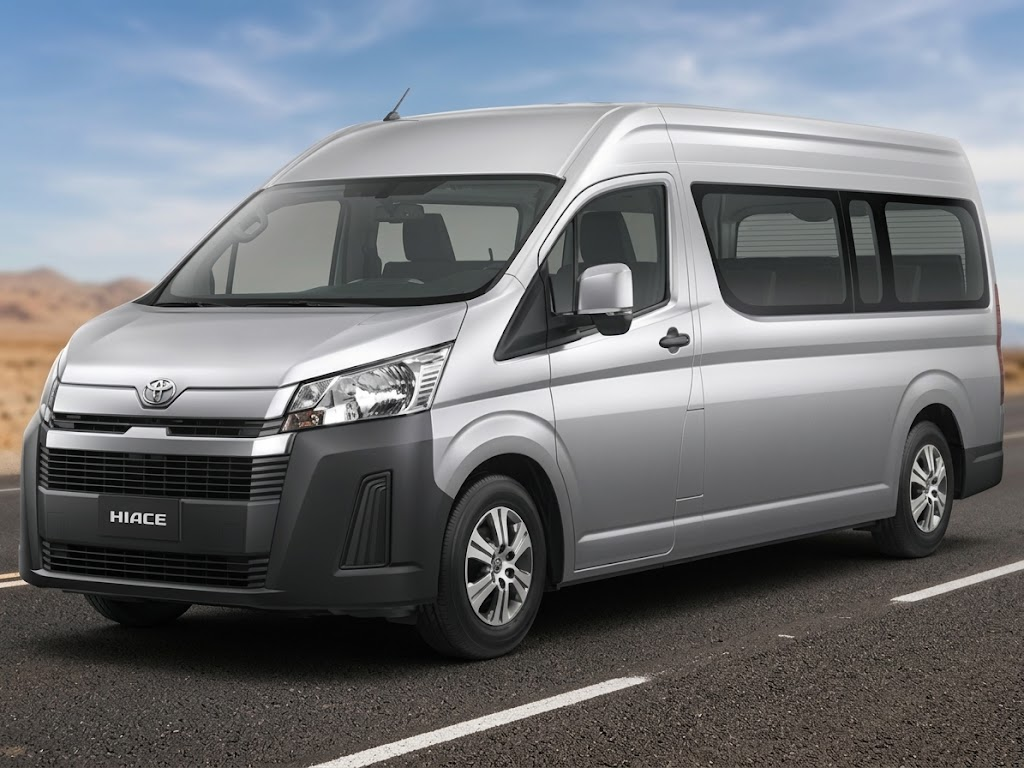
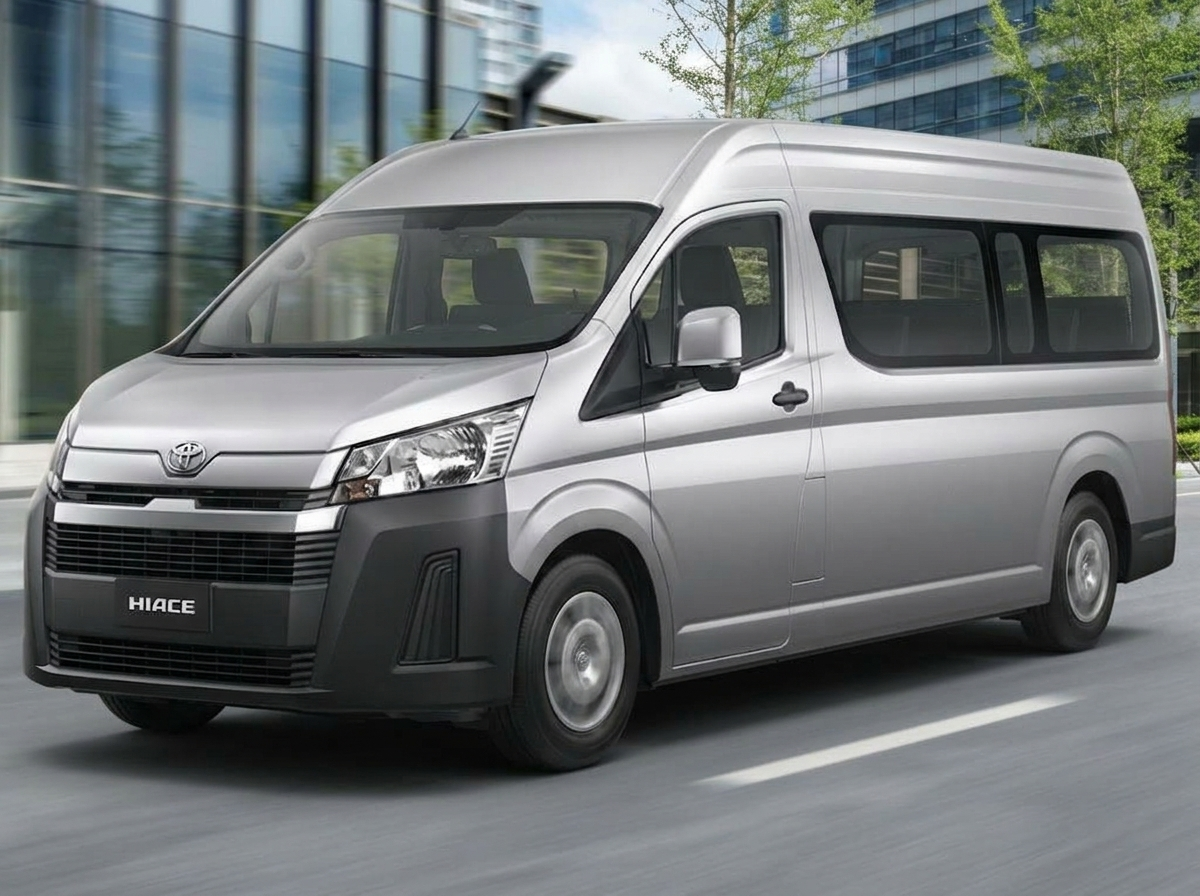
feat: renueva las fotos de la flota y ajusta los servicios
- Actualiza las imágenes de Ford Territory, Toyota Yaris Cross y Nissan Urvan;
  renombra el orden de la flota y usa los tamaños reales de cada foto.
- Convierte la imagen de la flota a WebP.
- Reescribe los textos de servicios y retira el servicio "conductor" del listado.
- Elimina el enlace secundario dentro de cada servicio, ahora toda la fila es clicable.

diff --git a/src/i18n/ui.ts b/src/i18n/ui.ts
@@ -69,7 +69,6 @@ const es = {
     title: 'Transporte privado para cada necesidad',
     imageAlt:
       'Pasajero trabajando con una laptop y hablando por teléfono en el asiento trasero de un vehículo',
-    cta: 'Solicitar cotización',
     items: {
       ejecutivo: {
         title: 'Transporte ejecutivo y corporativo',
@@ -77,23 +76,19 @@ const es = {
           'Traslados para ejecutivos, reuniones y viajes de trabajo, coordinados con anticipación.',
       },
       alquiler: {
-        title: 'Alquiler de vehículos',
+        title: 'Alquila tu vehículo, con chofer incluido',
         description:
-          'Vehículos para tus desplazamientos. Indícanos las fechas y el tipo de vehículo que necesitas para revisar disponibilidad.',
+          'Muévete con comodidad y sin preocuparte por manejar. Indícanos las fechas y el tipo de vehículo, y nuestro chofer calificado se encarga del resto.',
       },
       aeropuerto: {
         title: 'Traslados al aeropuerto',
         description:
-          'Recojo y traslado hacia y desde el aeropuerto, con horario y punto de encuentro acordados.',
+          'Traslados desde y hacia el aeropuerto con chofer calificado, en el horario y punto que acordemos. Extiende el servicio según lo necesites.',
       },
       turistico: {
         title: 'Transporte turístico',
         description:
-          'Transporte privado para tus viajes de turismo, según el itinerario que acuerdes con nosotros.',
-      },
-      chofer: {
-        title: 'Servicio con chofer',
-        description: 'Conductor para tus traslados, según el servicio que solicites.',
+          'Descubre Arequipa y más destinos con transporte privado y chofer calificado, según tu itinerario.',
       },
     } satisfies Record<ServiceId, { title: string; description: string }>,
   },
@@ -255,30 +250,26 @@ const en = {
     kicker: 'Services',
     title: 'Private transport for every need',
     imageAlt: 'Passenger working on a laptop and talking on the phone in the back seat of a vehicle',
-    cta: 'Request a quote',
     items: {
       ejecutivo: {
-        title: 'Executive and corporate transport',
-        description: 'Transfers for executives, meetings and business trips, coordinated in advance.',
+        title: 'Executive and corporate transportation',
+        description:
+          'Transportation for executives, meetings, and business trips, arranged in advance.',
       },
       alquiler: {
-        title: 'Vehicle rental',
+        title: 'Rent a vehicle with a driver included',
         description:
-          'Vehicles for your trips. Tell us the dates and the type of vehicle you need so we can check availability.',
+        'Travel in comfort without worrying about driving. Let us know your dates and preferred vehicle type, and our qualified driver will take care of the rest.',
       },
       aeropuerto: {
         title: 'Airport transfers',
         description:
-          'Pick-up and transfer to and from the airport, with the schedule and meeting point agreed in advance.',
+          'Transfers to and from the airport with a qualified driver, at the agreed time and location. Extend the service as needed.',
       },
       turistico: {
-        title: 'Tourist transport',
+        title: 'Tourist transportation',
         description:
-          'Private transport for your sightseeing trips, following the itinerary you agree with us.',
-      },
-      chofer: {
-        title: 'Chauffeur service',
-        description: 'A driver for your transfers, according to the service you request.',
+          'Discover Arequipa and other destinations with private transportation and a qualified driver, tailored to your itinerary.',
       },
     },
   },

diff --git a/src/data/vehicles.ts b/src/data/vehicles.ts
@@ -31,21 +31,13 @@ export const vehicles: Vehicle[] = [
     id: 'ford-territory',
     name: 'Ford Territory',
     category: 'suv',
-    image: '/images/fordTerritory.webp',
-    width: 800,
-    height: 450,
+    image: '/images/fordTerritory.jpeg',
+    width: 1376,
+    height: 768,
     passengers: 5,
     luggage: 3,
     transmission: 'automatic',
     climate: true,
-  },
-  {
-    id: 'nissan-urvan',
-    name: 'Nissan Urvan',
-    category: 'van',
-    image: '/images/nissanUrban.jpeg',
-    width: 1920,
-    height: 1439,
   },
   {
     id: 'toyota-rav4',
@@ -59,8 +51,16 @@ export const vehicles: Vehicle[] = [
     id: 'toyota-yaris-cross',
     name: 'Toyota Yaris Cross',
     category: 'suv',
-    image: '/images/toyotaYarisCross.jpg',
-    width: 2419,
-    height: 1814,
+    image: '/images/ToyotaYarisCross.jpeg',
+    width: 1200,
+    height: 896,
+  },
+  {
+    id: 'nissan-urvan',
+    name: 'Nissan Urvan',
+    category: 'van',
+    image: '/images/nissanUrban.jpeg',
+    width: 1200,
+    height: 896,
   },
 ];

diff --git a/src/data/site.ts b/src/data/site.ts
@@ -23,7 +23,7 @@ export const contactDetails: ContactDetails = {
 export const siteImages: { arequipa: string | null; services: string; fleet: string } = {
   arequipa: '/images/mapaArequipa.jpeg',
   services: '/images/imgBusiness.webp',
-  fleet: '/images/FlotaIA.jpeg',
+  fleet: '/images/FlotaIA.webp',
 };
 
 // Fondo del hero principal. La imagen se muestra siempre; el video solo se carga en escritorio.

diff --git a/src/data/services.ts b/src/data/services.ts
@@ -1,4 +1,4 @@
 // Los textos de cada servicio viven en src/i18n/ui.ts, indexados por id.
-export const serviceIds = ['ejecutivo', 'alquiler', 'aeropuerto', 'turistico', 'chofer'] as const;
+export const serviceIds = ['ejecutivo', 'alquiler', 'aeropuerto', 'turistico'] as const;
 
 export type ServiceId = (typeof serviceIds)[number];
